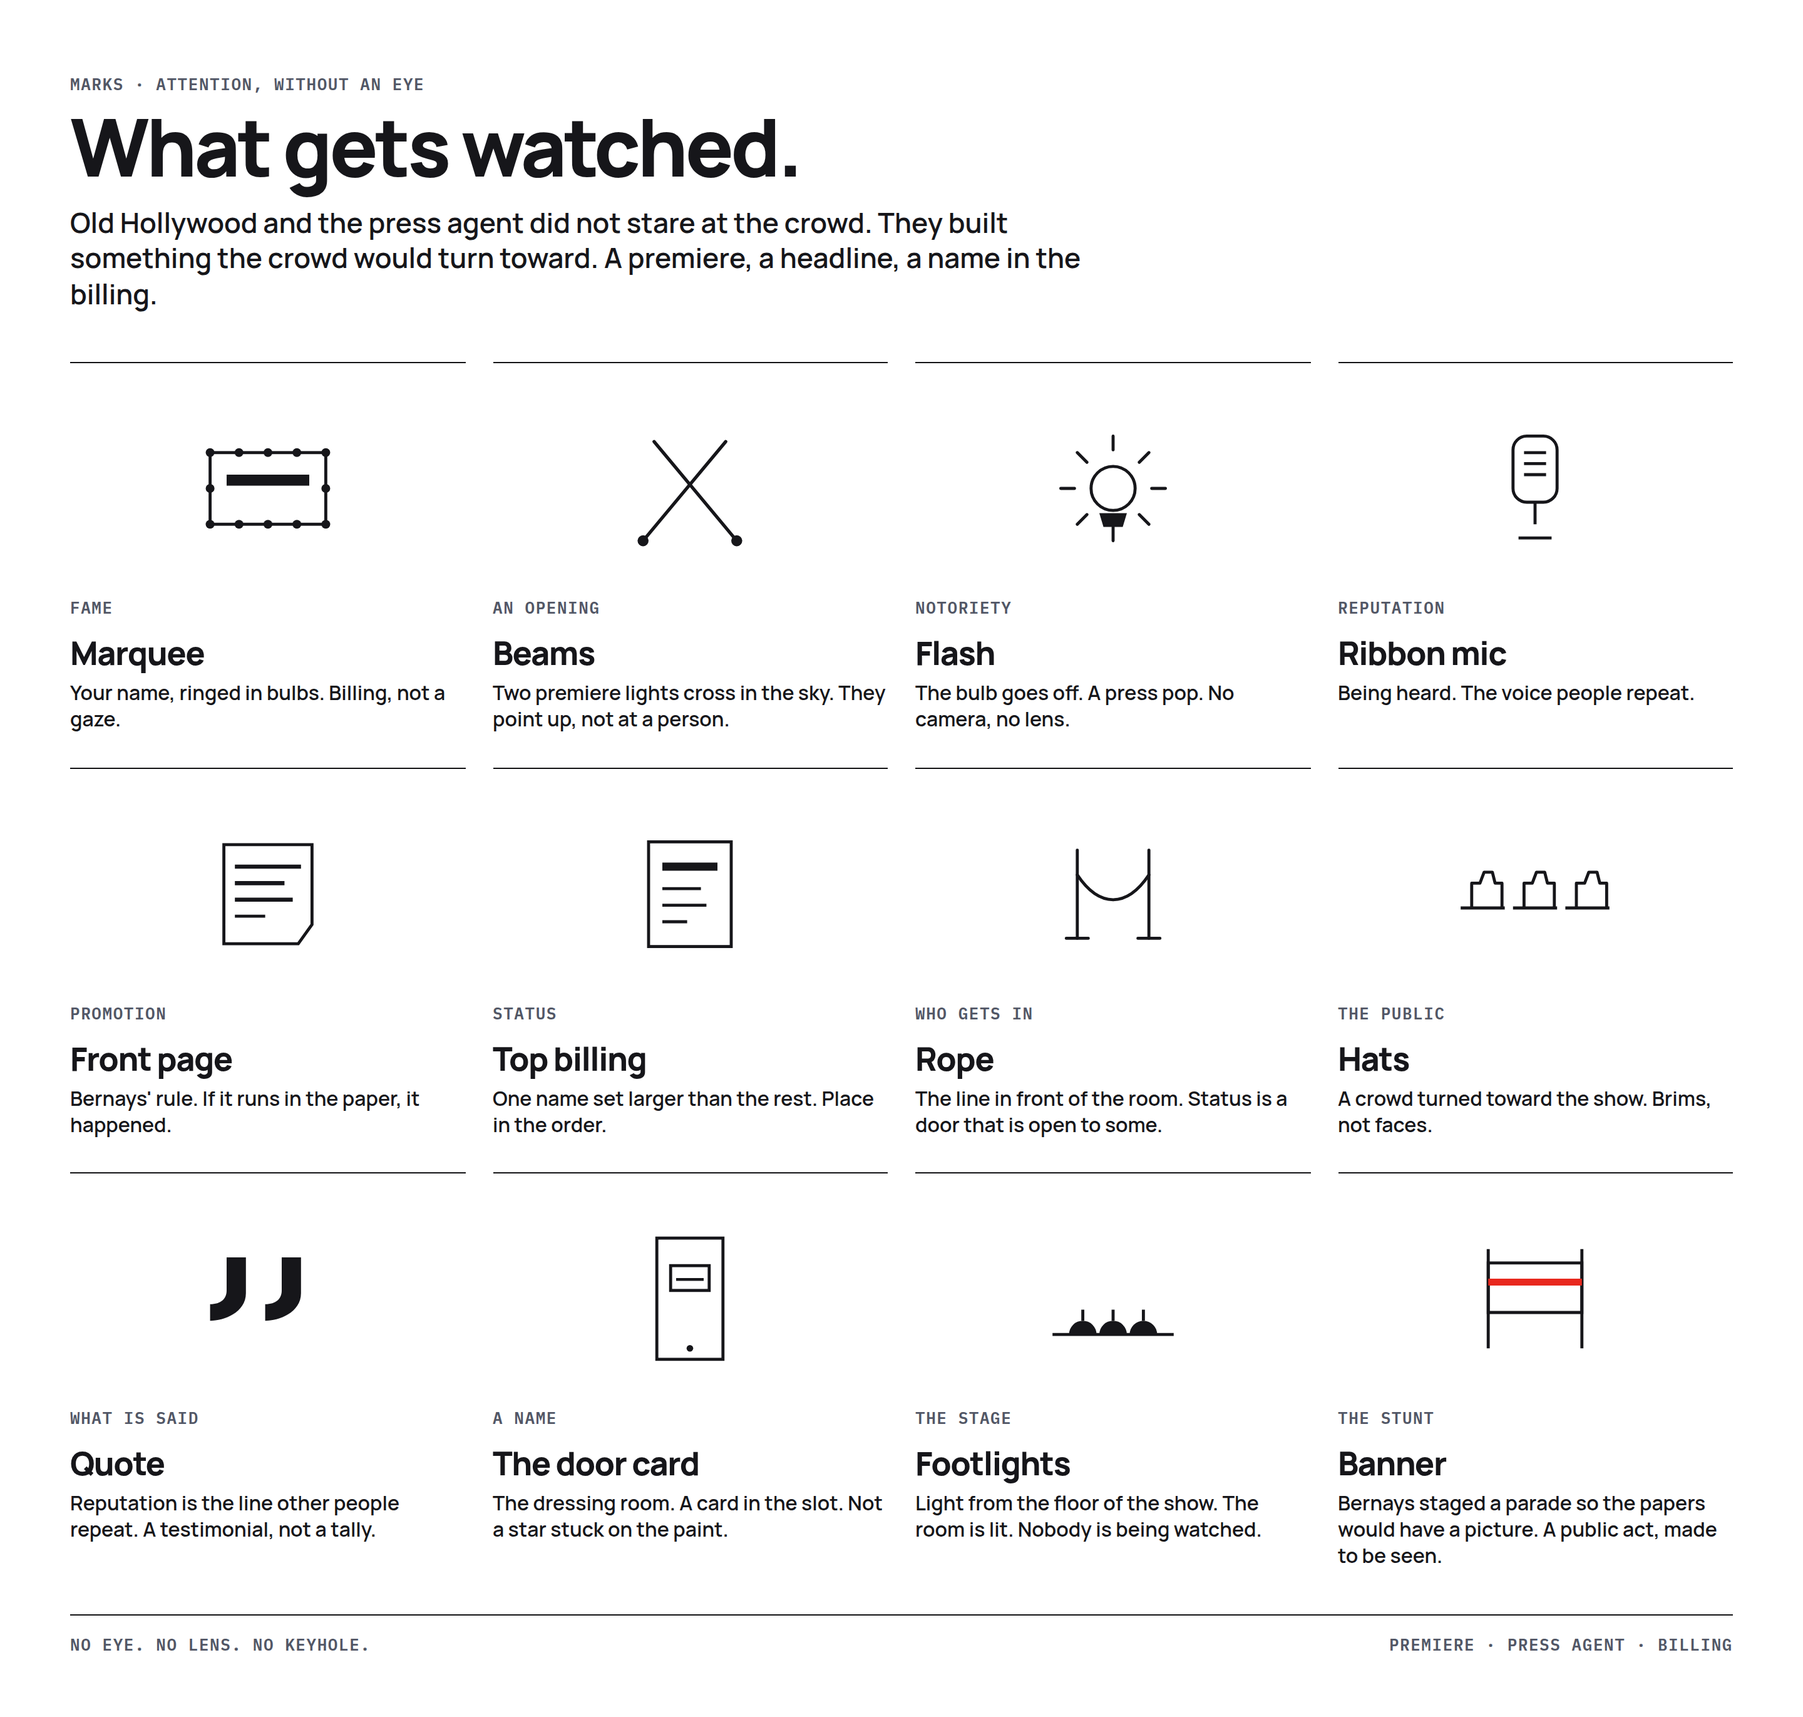
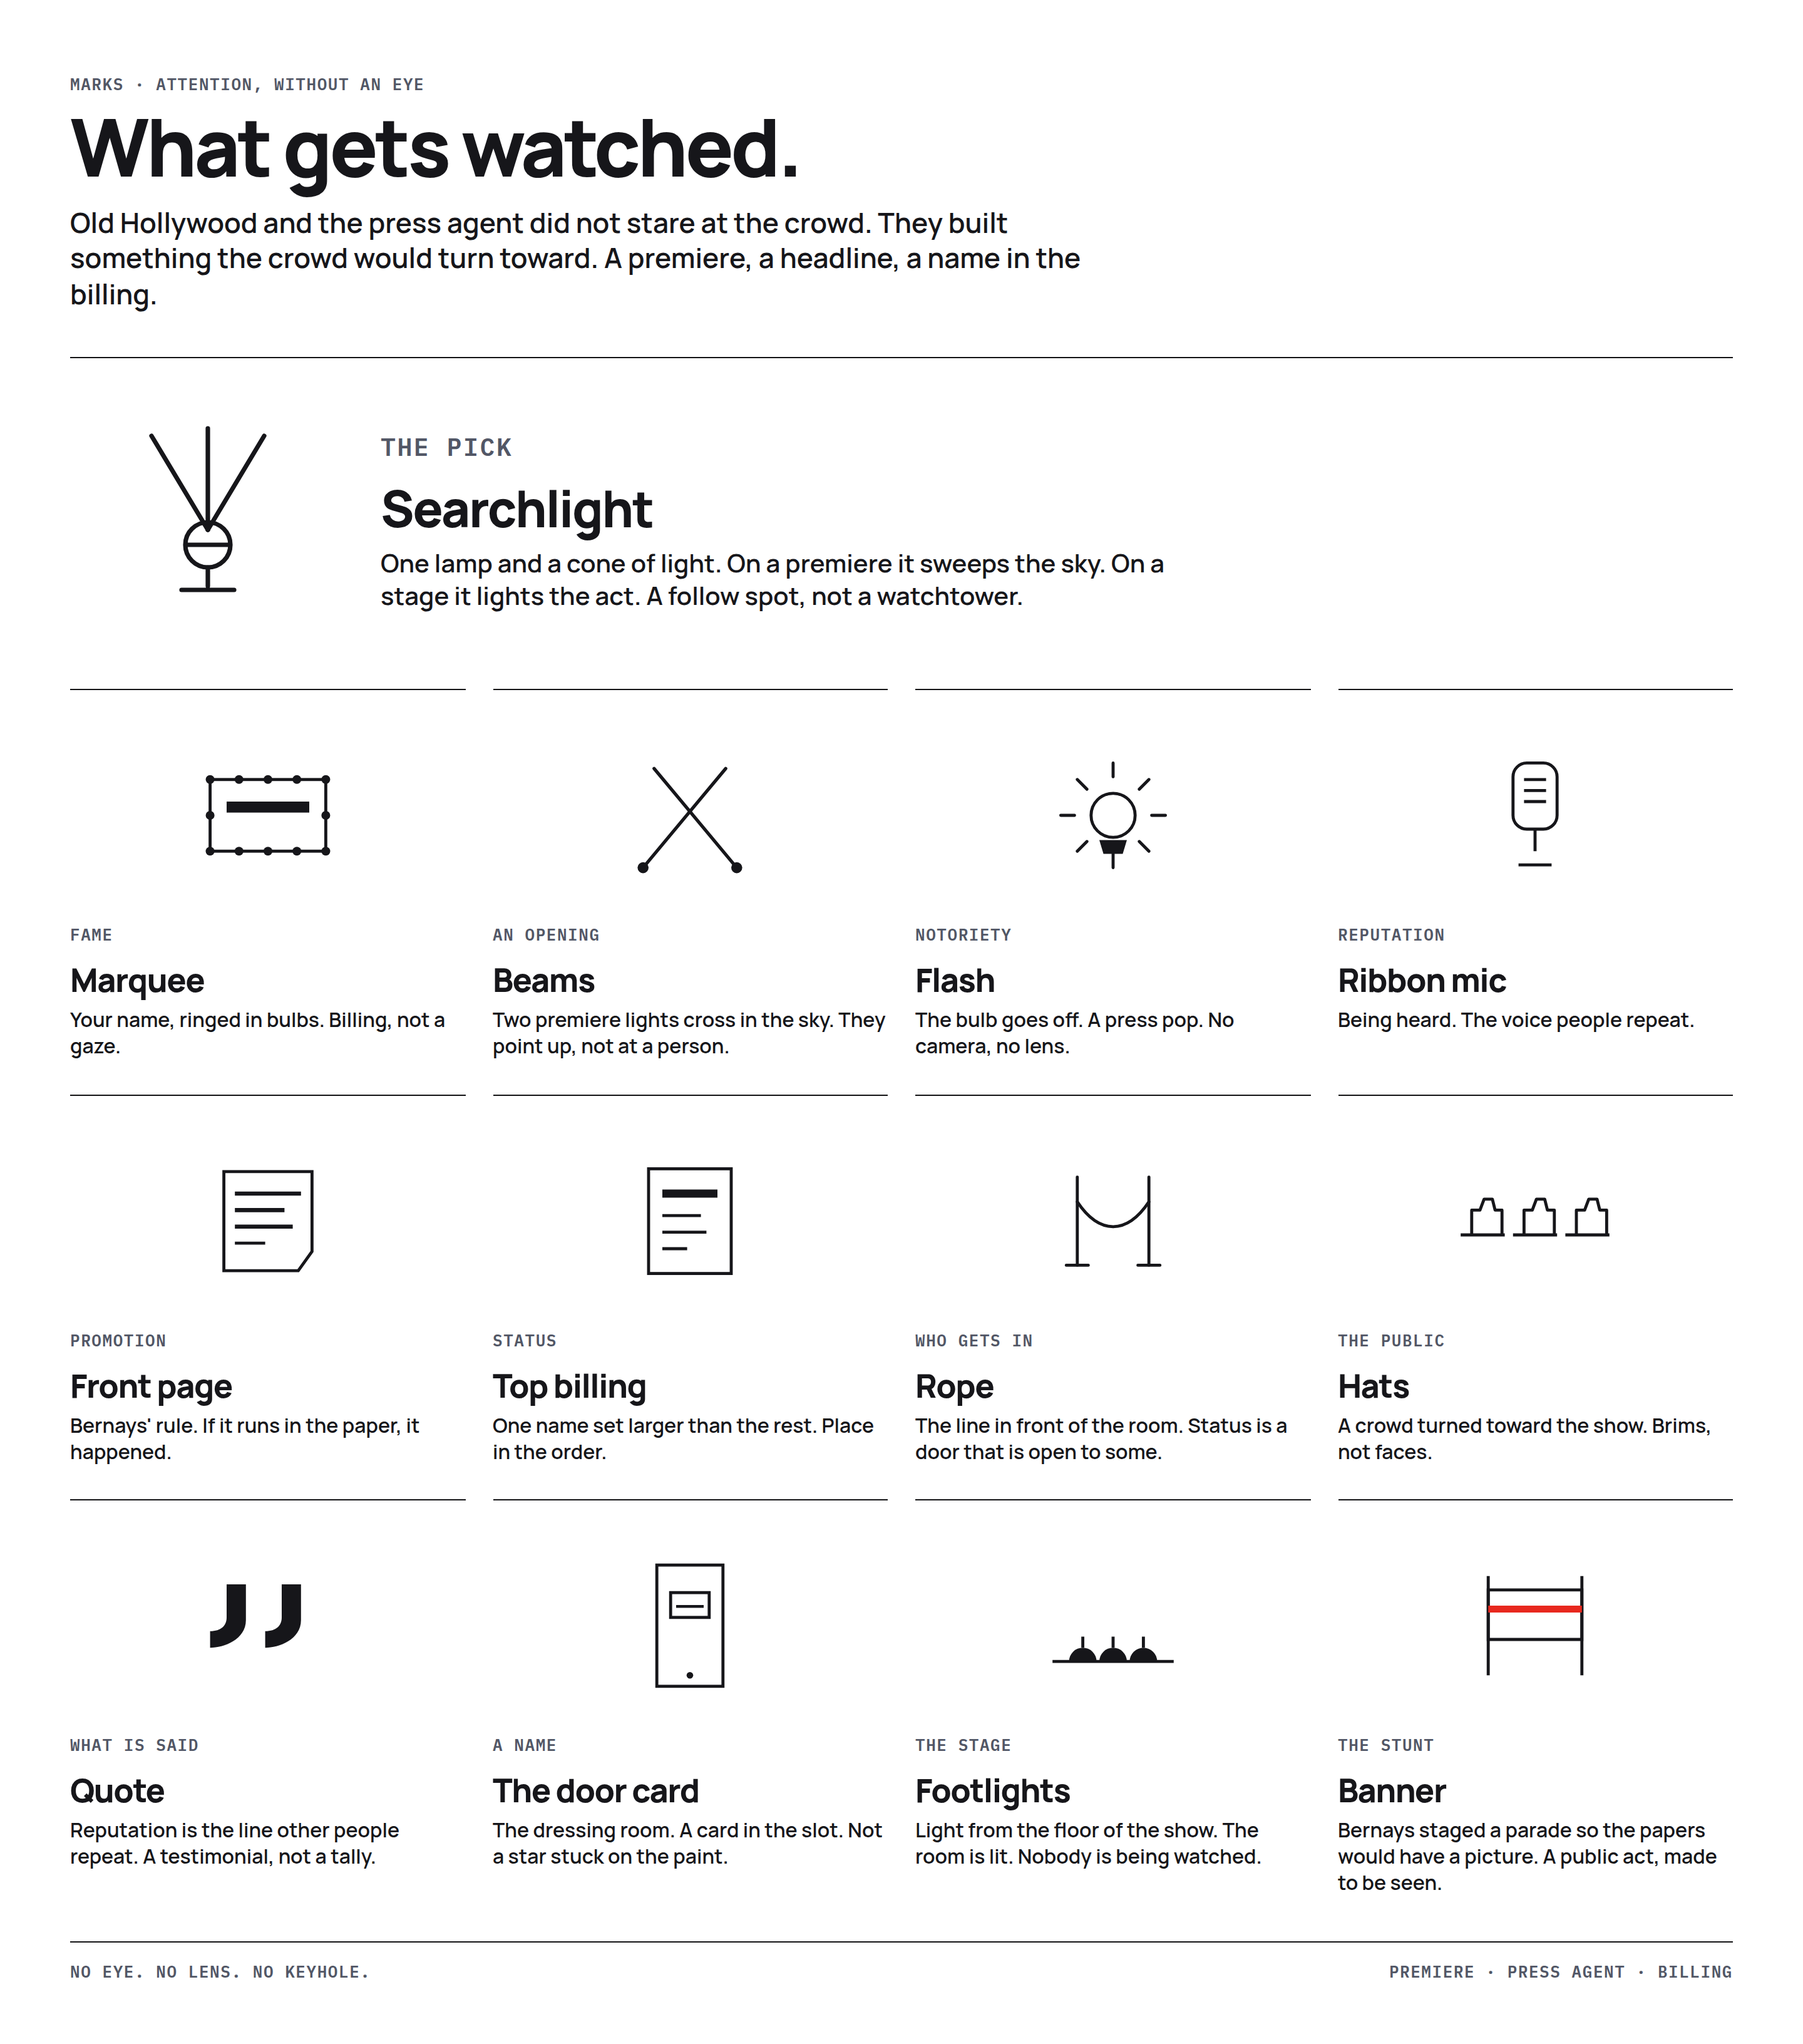
Add a searchlight to the attention marks.
One lamp and a cone of light. It sweeps a premiere sky or lights the act. Not a watchtower.

diff --git a/design-language/instrument-calm/ads-003/attention-marks.html b/design-language/instrument-calm/ads-003/attention-marks.html
@@ -11,7 +11,12 @@
   .k { font-family: "IBM Plex Mono", ui-monospace, monospace; font-weight: 600; letter-spacing: .06em; text-transform: uppercase; font-size: 13px; color: #525766; }
   h1 { font-weight: 800; font-size: 64px; letter-spacing: -0.04em; line-height: .95; margin-top: 10px; }
   .lede { font-weight: 600; font-size: 22px; max-width: 820px; margin-top: 16px; line-height: 1.3; }
-  .grid { display: grid; grid-template-columns: repeat(4, 1fr); gap: 28px 22px; margin-top: 40px; }
+  .lead { display: grid; grid-template-columns: 220px 1fr; gap: 28px; align-items: center; margin-top: 36px; border-top: 1px solid #121214; padding-top: 28px; }
+  .lead .stamp { height: 200px; }
+  .lead .stamp svg { width: 180px; height: 180px; }
+  .lead h2 { font-size: 40px; }
+  .lead p { font-size: 20px; max-width: 640px; }
+  .grid { display: grid; grid-template-columns: repeat(4, 1fr); gap: 28px 22px; margin-top: 36px; }
   .mark { border-top: 1px solid #121214; padding-top: 16px; }
   .stamp { width: 100%; height: 168px; display: grid; place-items: center; }
   .stamp svg { width: 132px; height: 132px; }
@@ -25,6 +30,21 @@
   <p class="k">Marks · attention, without an eye</p>
   <h1>What gets watched.</h1>
   <p class="lede">Old Hollywood and the press agent did not stare at the crowd. They built something the crowd would turn toward. A premiere, a headline, a name in the billing.</p>
+  <div class="lead">
+    <div class="stamp" aria-hidden="true">
+      <svg viewBox="0 0 120 120" fill="none" stroke="#16161A" stroke-width="2.4" stroke-linecap="round">
+        <path d="M60 66 L30 16"/><path d="M60 66 L60 12"/><path d="M60 66 L90 16"/>
+        <circle cx="60" cy="74" r="12"/>
+        <path d="M49 74 h22"/>
+        <path d="M60 86 v10 M46 98 h28"/>
+      </svg>
+    </div>
+    <div>
+      <p class="k">The pick</p>
+      <h2>Searchlight</h2>
+      <p>One lamp and a cone of light. On a premiere it sweeps the sky. On a stage it lights the act. A follow spot, not a watchtower.</p>
+    </div>
+  </div>
   <div class="grid">
 
     <div class="mark">
